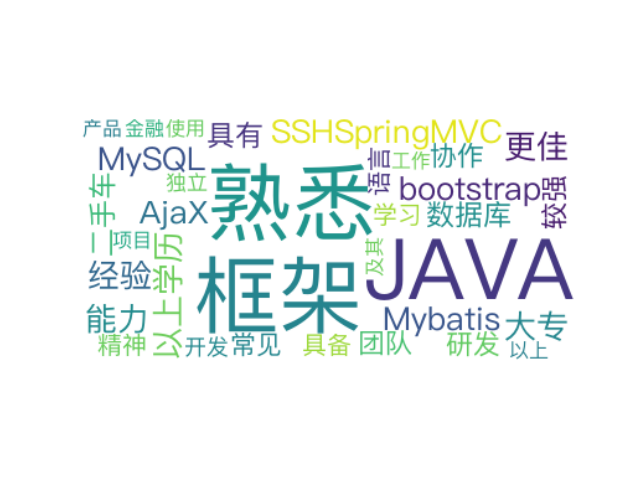
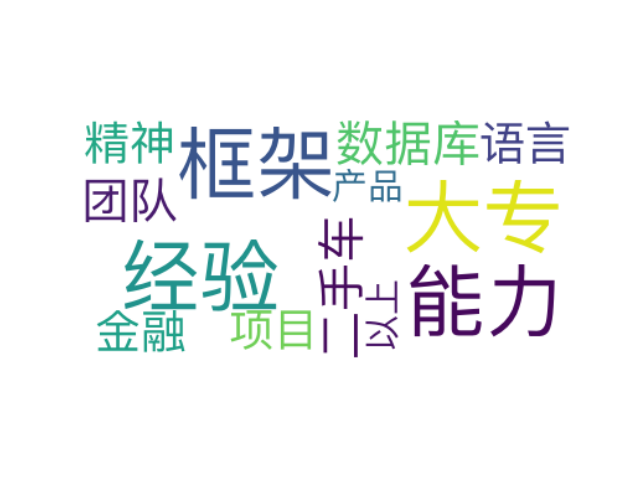
final finish

Changed region(s): [[0.125, 0.25, 0.9062, 0.75]]

diff --git a/spider/Spider_liepin.py b/spider/Spider_liepin.py
@@ -193,7 +193,10 @@ class MySpider:
         # 对职位细节进行数据清洗
 
         # 词云关键词提取权重,越小越少
-        MyTopK = 100
+        MyTopK = 200
+
+        # 只包含指定词性的词
+        MyAllowPOS = ('n','nr','ns','nt','nw','nz','s','f','t','t','an')
 
         try:
             for job in self.jobs:
@@ -232,7 +235,7 @@ class MySpider:
 
                     # TF-IDF
                     TF_IDF = analyse.extract_tags
-                    keywords = TF_IDF(str_jobRequire, topK=MyTopK)
+                    keywords = TF_IDF(str_jobRequire, topK=MyTopK,allowPOS=MyAllowPOS)
 
                     num_word = 0
 
@@ -310,10 +313,10 @@ if __name__ == '__main__':
     # spider.run()
 
     # 爬取职位细节,在这一步之前请先运行MySpider的run()方法
-    spider.run_getDetail()
+    # spider.run_getDetail()
 
     # 对职位细节进行数据清洗
-    spider.processData()
+    # spider.processData()
 
     # 根据职位keyword生成词云
     spider.createWordCloud()
